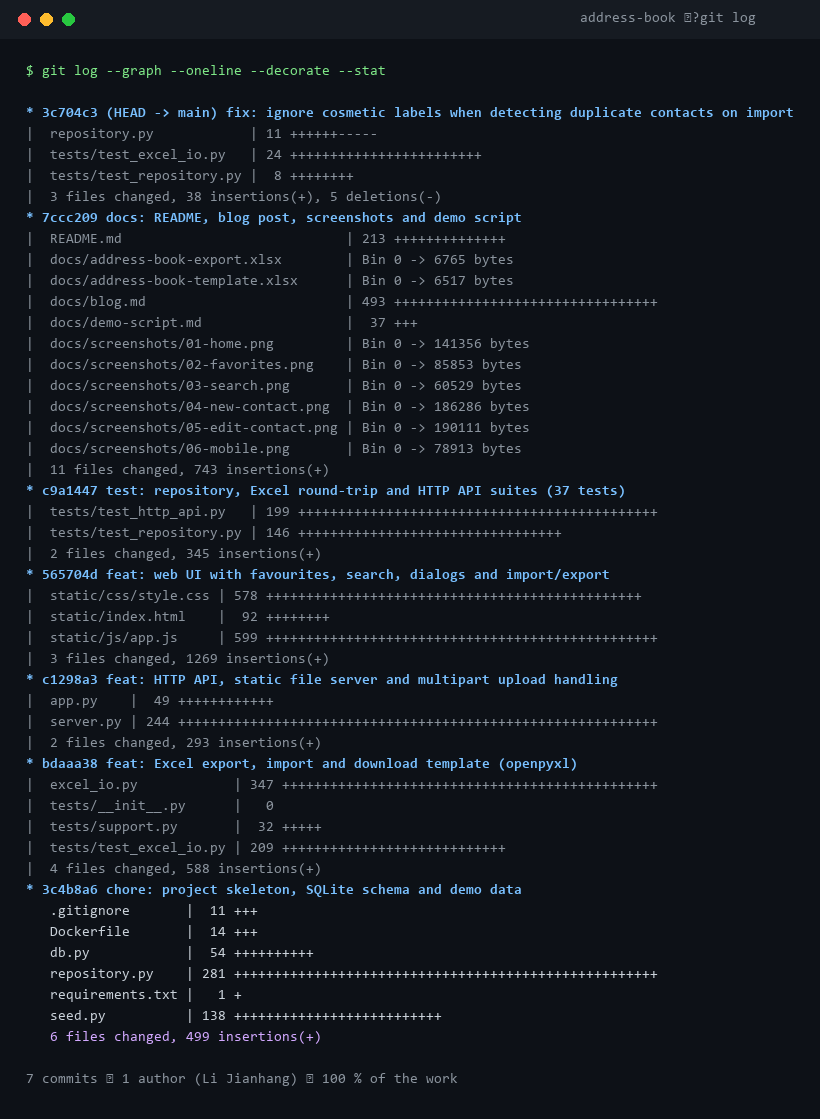
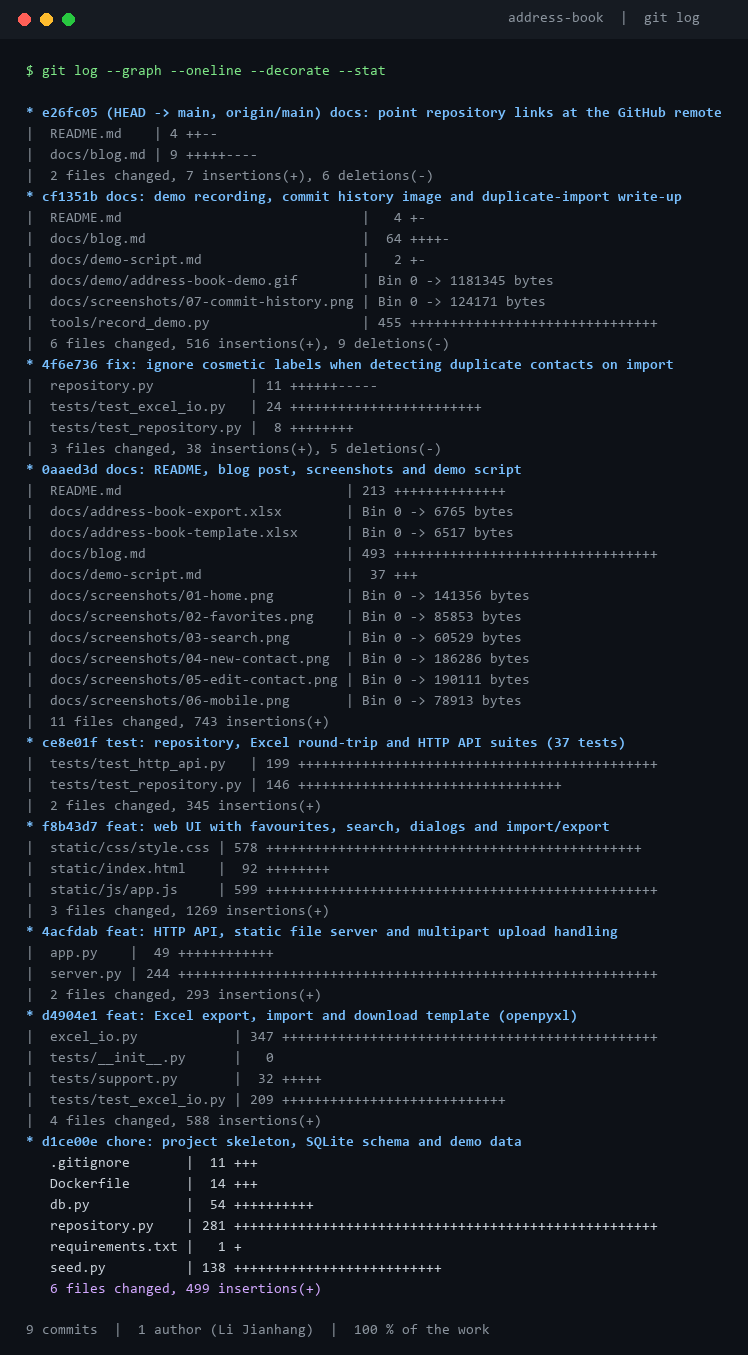
docs: refresh the commit history image after the author rewrite

diff --git a/docs/blog.md b/docs/blog.md
@@ -64,7 +64,7 @@ UI → tests → documentation), not one dump at the end:
 | 7 | `fix: ignore cosmetic labels when detecting duplicate contacts on import` | `repository.py`, tests |
 | 8 | `docs: point repository links at the GitHub remote` | `README.md`, `docs/blog.md` |
 
-![Commit history on GitHub](screenshots/07-commit-history.png)
+![Commit history: nine commits by one author](screenshots/07-commit-history.png)
 
 The image above is `git log --graph --oneline --stat` from the repository; the same list is
 visible on the GitHub *Commits* page after pushing.
